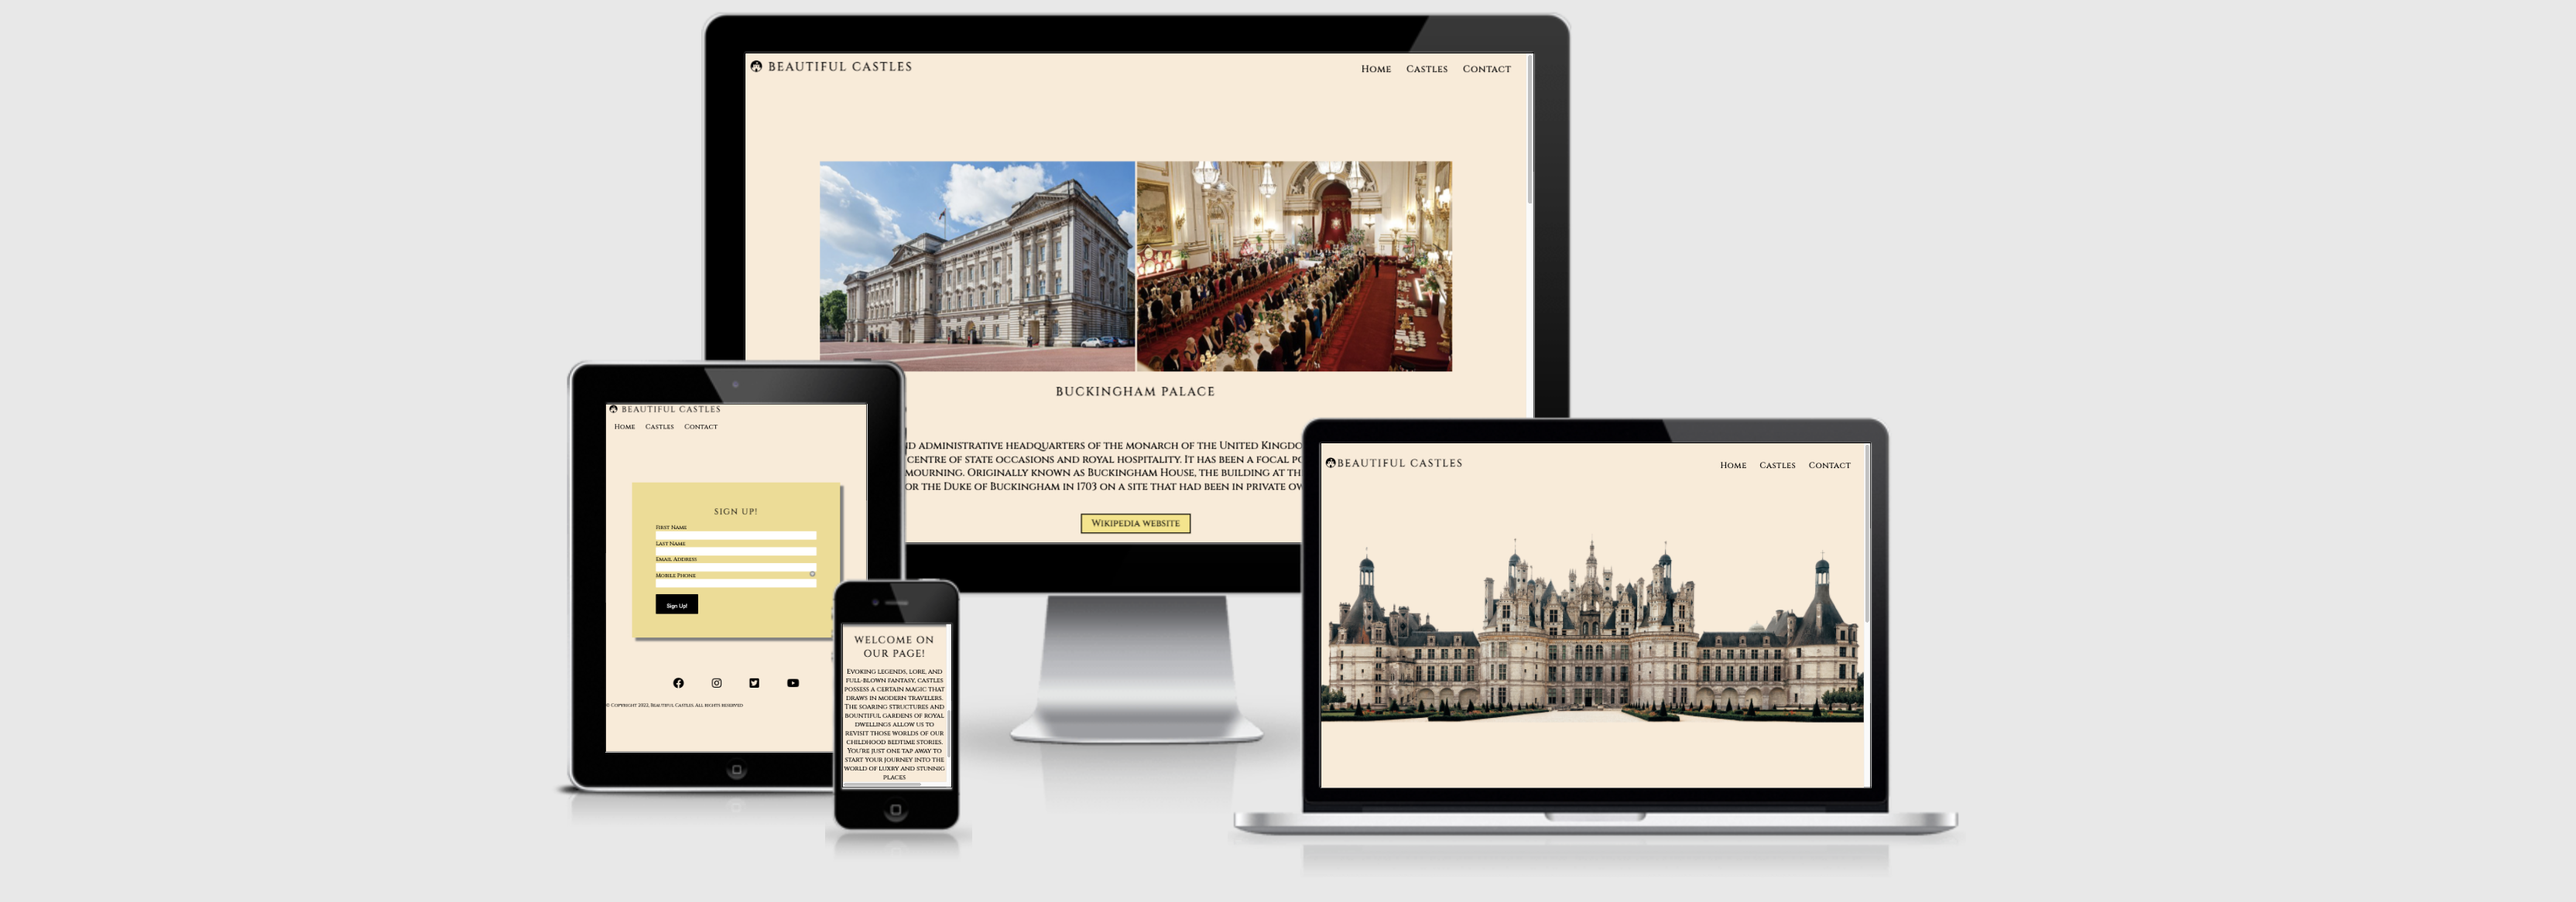
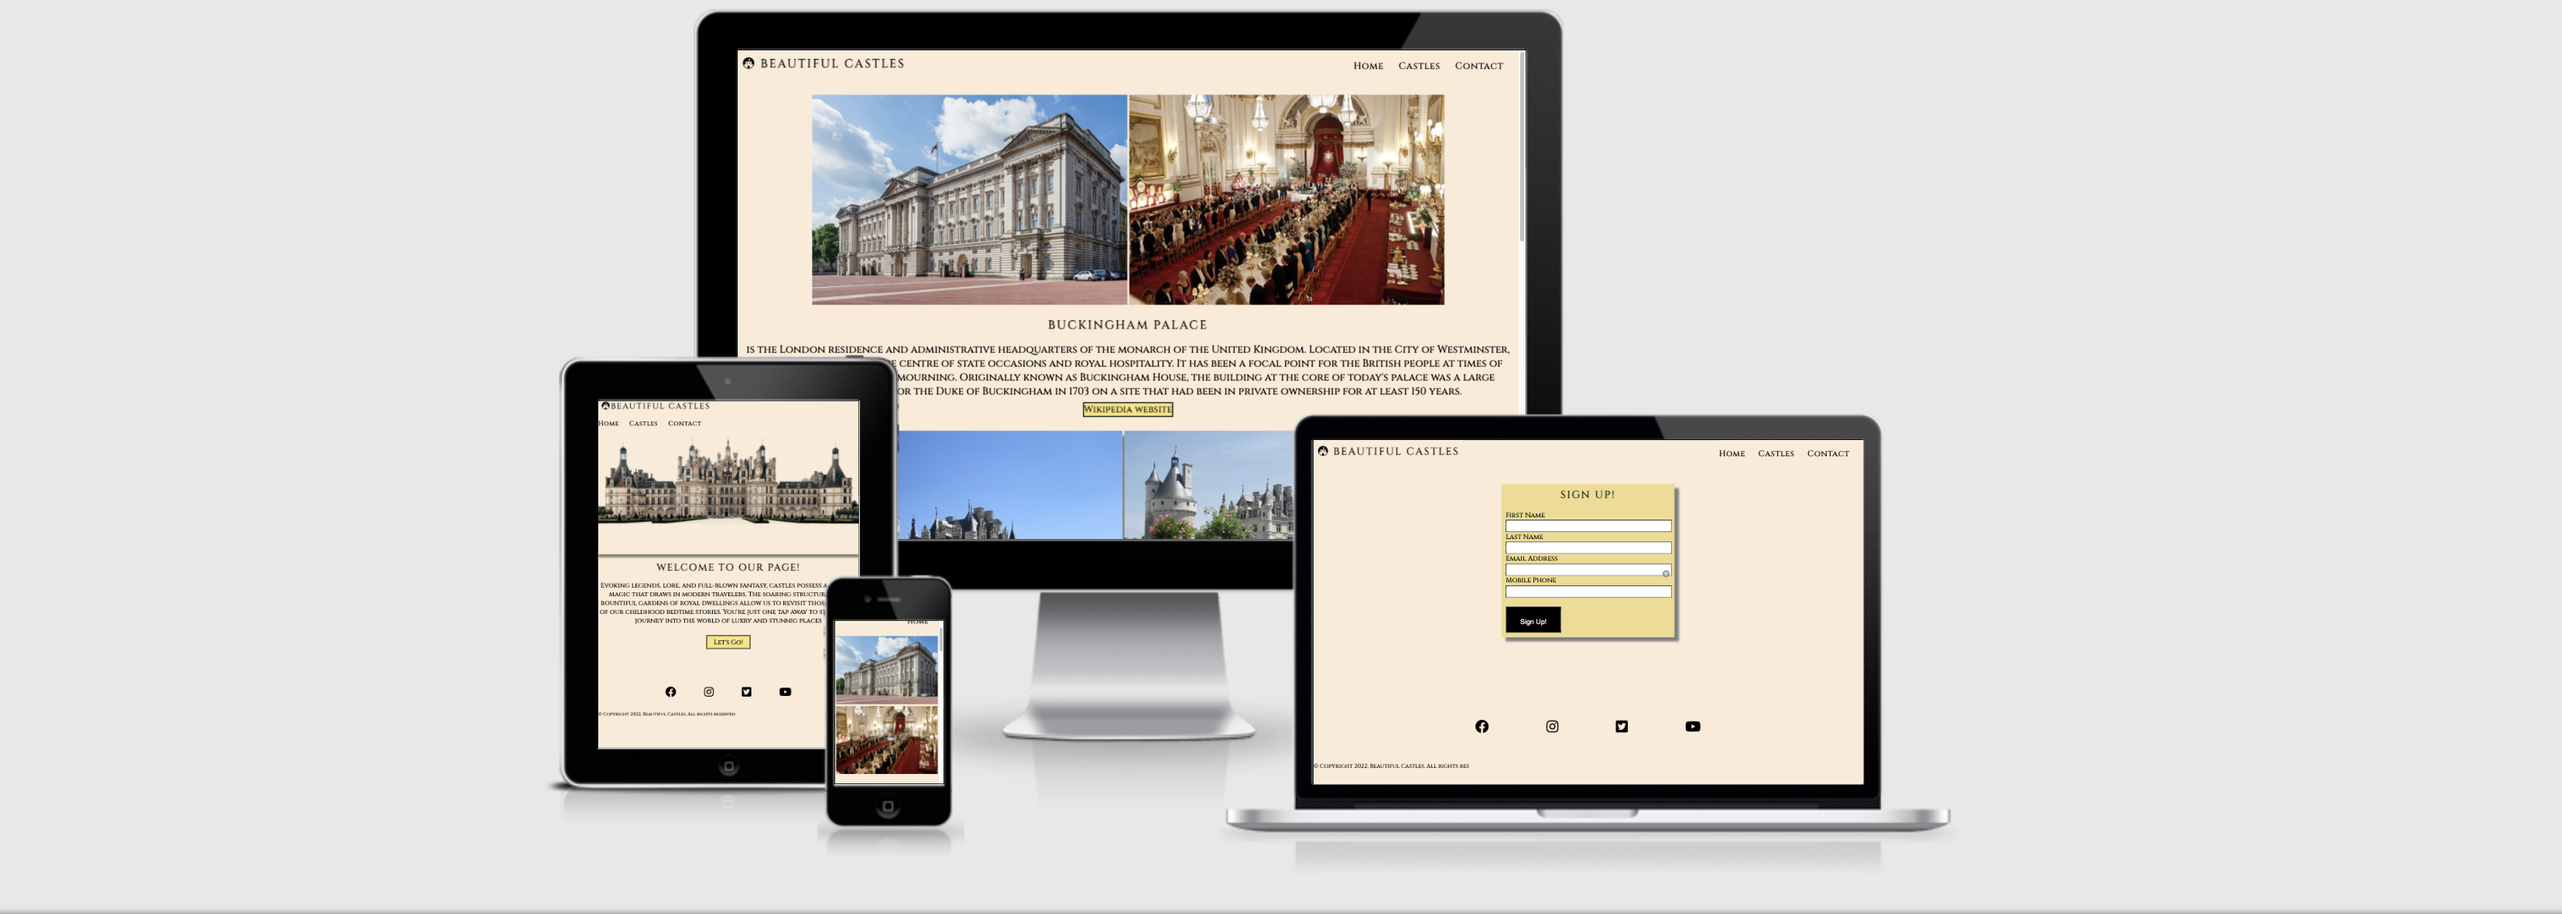
Add updated pictures of mockup and sig up form to media secetion

Changed region(s): [[0.2178, 0.0, 0.7779, 0.9571], [0.0, 0.988, 1.0, 1.0]]

diff --git a/assets/css/style.css b/assets/css/style.css
@@ -19,7 +19,6 @@ body {
 }
 
 /* Headings and Logo */
-
 h1,
 h2,
 h3 {
@@ -40,7 +39,6 @@ h3 {
 }
 
 /* Navigation links */
-
 #menu {
   font-size: 1.2rem;
   letter-spacing: 1px;
@@ -68,7 +66,6 @@ h3 {
 }
 
 /* Background castle image */
-
 #background-castle {
   height: 800px;
   width: 100%;
@@ -80,7 +77,6 @@ h3 {
 }
 
 /* Welcome Main text section two  */
-
 #main-text {
   color: black;
   text-align: center;
@@ -93,8 +89,6 @@ section p {
 }
 
 /* Welcome button section two*/
-
-
 #button {
   font-size: 1.2rem;
   border: 2px solid black;
@@ -108,14 +102,13 @@ li a:hover {
 }
 
 /* Castles */
-
 .photo-box {
   width: 100%;
   margin-top: 30px;
   display: inline-block;
 }
 
-.photo-box > img {
+.photo-box>img {
   display: inline-block;
 }
 
@@ -144,7 +137,6 @@ div p {
 }
 
 /* Contact section signup */
-
 .signup-form {
   color: rgb(0, 0, 0);
   background-color: rgba(224, 207, 57, 0.514);
@@ -187,7 +179,6 @@ div p {
 }
 
 /* footer */
-
 footer {
   height: 150px;
   margin-top: 10%;
@@ -268,7 +259,6 @@ footer {
 }
 
 /*For samll screens sizes from 950px and down */
-
 @media only screen and (max-width: 950px) {
   #menu {
     clear: left;
@@ -300,9 +290,7 @@ footer {
 }
 
 /*For super small screens sizes from 800px and down */
-
 @media only screen and (max-width: 800px) {
-
   #background-castle {
     width: 100%;
     height: 450px;
@@ -336,9 +324,9 @@ footer {
   }
 
   div img {
-    height: auto; 
-    width: auto; 
-    max-width: 300px; 
+    height: auto;
+    width: auto;
+    max-width: 300px;
     max-height: 300px;
   }
 }

diff --git a/README.md b/README.md
@@ -68,11 +68,11 @@ Welcome to [Beautiful Castles](https://archie9010.github.io/Beautiful-Castles) A
 ### Functionality
 
    
-| Test Label         |             Test Action          |         Expected Outcome           | Test Outcome    |
+| Test Label         |            Test Action           |         Expected Outcome           | Test Outcome    |
 |:------------------ |:---------------------------------|:-----------------------------------|:----------------|
 | Menu Test          |  Responsive navigation bar       | Navigate to the desired page.      | PASS            |
 | Website buttons    |  Responsive button               | Navigate to external websites      | PASS            |
-| Sign Up button     |  Responsive Sign-Up button       | Navigates to dump sever            | PASS            |
+| Sign-Up button     |  Responsive Sign-Up button       | Navigates to dump sever            | PASS            |
 | Let's go button    |  Responsive Let's go button      | Navigates to gallery               | PASS            |
 | Social media icons |  Responsive Social media icons   | Navigate to social media websites  | PASS            |
 
@@ -87,7 +87,6 @@ Welcome to [Beautiful Castles](https://archie9010.github.io/Beautiful-Castles) A
 ### Bugs
 
 * No bugs found
-
 
 ### Validator Testing
 
@@ -117,11 +116,11 @@ Welcome to [Beautiful Castles](https://archie9010.github.io/Beautiful-Castles) A
 * Open a GitBash terminal and navigate to the directory where you want to locate the clone
 * On the command line, type "git clone" then paste in the copied url and press the Enter key to begin the clone process
 
-* The site was deployed to GitHub pages. The steps to deploy are followed:
-  - Logged into GitHub
-  - In the GitHub repository, navigate to the Settings tab.
-  - From the drop-down menu, select the Main Branch
-  - Once the Main branch has been selected, the page provided the link to the completed website.
+The site was deployed to GitHub pages. The steps to deploy are followed:
+* Logged into GitHub
+* In the GitHub repository, navigate to the Settings tab.
+* From the drop-down menu, select the Main Branch
+* Once the Main branch has been selected, the page provided the link to the completed website.
 
 Live link: [Beautiful Castles](https://archie9010.github.io/Beautiful-Castles/)
 
